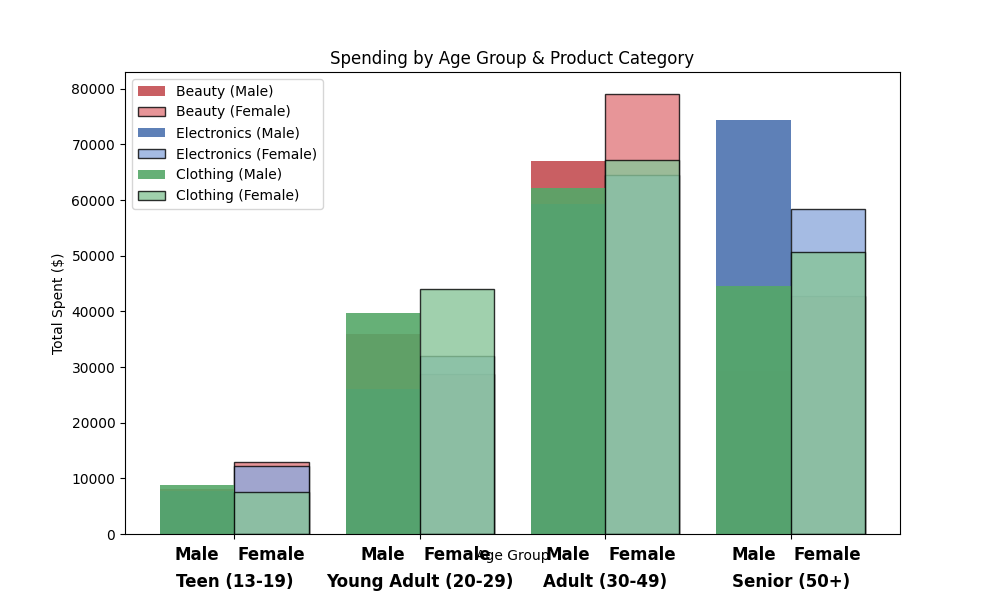
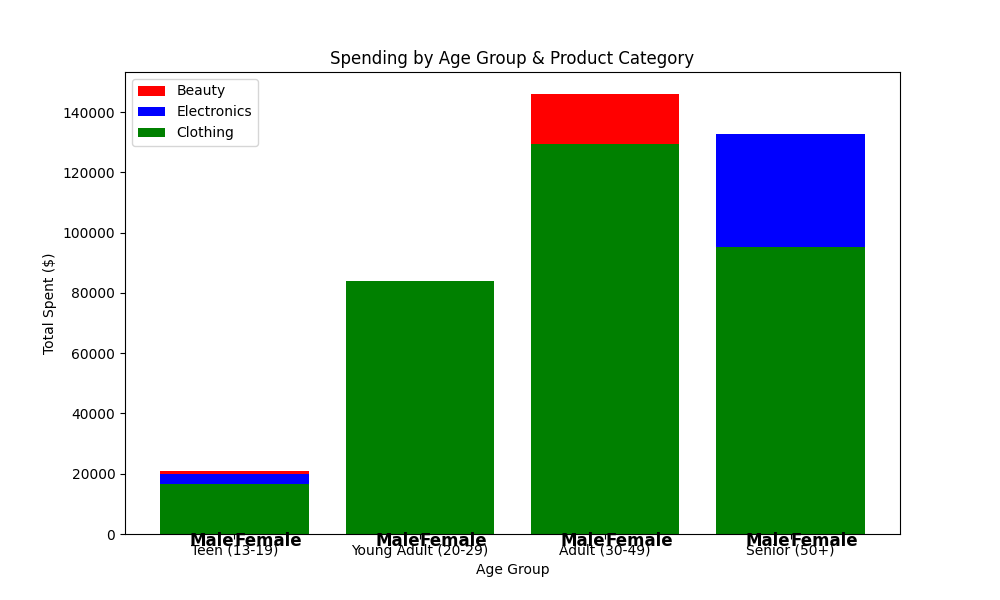
Updated age group chart and final refinements

diff --git a/app.py b/app.py
@@ -141,8 +141,8 @@ def generate_gender_chart():
     plt.savefig("static/gender_chart.png")
     plt.close()
 
-# Generate age-based spending chart with improved colors, better spacing, and refined visuals
-# Generate age-based spending chart with improved colors, better spacing, and proper category display
+
+# Generate age-based spending chart with gender labels below the bars
 def generate_age_chart():
     df_age = get_age_group_spending()
     plt.figure(figsize=(10, 6))
@@ -151,48 +151,32 @@ def generate_age_chart():
     categories = df_age["product_category"].unique()
     x = range(len(age_groups))  # X-axis positions
 
-    # Color palette: Same base color for categories but different shades per gender
+    # Define consistent colors for product categories
     colors = {
-        "Electronics_Male": "#4c72b0",  # Deep Blue
-        "Electronics_Female": "#8faadc",  # Light Blue
-        "Clothing_Male": "#55a868",  # Soft Green
-        "Clothing_Female": "#88c599",  # Light Green
-        "Beauty_Male": "#c44e52",  # Rich Red
-        "Beauty_Female": "#e27b7e"  # Light Red/Pink
+        "Electronics": "blue",
+        "Clothing": "green",
+        "Beauty": "red"
     }
 
-    bar_width = 0.4  # Space between Male and Female bars
-
-    # Loop through categories and plot male & female bars for each
+    # Plot bars for each product category
     for category in categories:
-        male_spending = [df_age.loc[(df_age["age_group"] == age) & (df_age["gender"] == "Male") & (df_age["product_category"] == category), "total_spent"].sum() for age in age_groups]
-        female_spending = [df_age.loc[(df_age["age_group"] == age) & (df_age["gender"] == "Female") & (df_age["product_category"] == category), "total_spent"].sum() for age in age_groups]
+        subset = df_age[df_age["product_category"] == category]
+        total_spending = [subset[subset["age_group"] == age]["total_spent"].sum() for age in age_groups]
+        plt.bar(x, total_spending, label=category, color=colors[category])
 
-        # Ensure that missing categories show as 0 instead of disappearing
-        male_spending = [0 if pd.isna(val) else val for val in male_spending]
-        female_spending = [0 if pd.isna(val) else val for val in female_spending]
-
-        plt.bar([i - bar_width / 2 for i in x], male_spending, width=bar_width, label=f"{category} (Male)", color=colors[f"{category}_Male"], alpha=0.9)
-        plt.bar([i + bar_width / 2 for i in x], female_spending, width=bar_width, label=f"{category} (Female)", color=colors[f"{category}_Female"], edgecolor='black', alpha=0.8)
-
-    # Improved spacing for labels
-    max_height = max(df_age["total_spent"]) if not df_age.empty else 1  # Prevent division by zero
-    gender_labels_y = -max_height * 0.06  # Space for Male/Female labels
-    age_labels_y = -max_height * 0.12  # Space for Age Group labels
-
+    # Add Male & Female labels directly above "Teen", "Young Adult", etc.
+    gender_labels_y = -max(df_age["total_spent"]) * 0.05  # Position labels below the bars
     for i, age in enumerate(age_groups):
-        plt.text(i - bar_width / 2, gender_labels_y, "Male", ha="center", fontsize=12, fontweight="bold", color="black")
-        plt.text(i + bar_width / 2, gender_labels_y, "Female", ha="center", fontsize=12, fontweight="bold", color="black")
-        plt.text(i, age_labels_y, age, ha="center", fontsize=12, fontweight="bold", color="black")
+        plt.text(i, gender_labels_y, "Male", ha="right", fontsize=12, fontweight="bold", color="black")
+        plt.text(i, gender_labels_y, "Female", ha="left", fontsize=12, fontweight="bold", color="black")
 
-    plt.xticks(x, [])  # Hide default x-axis labels since we added them manually
+    plt.xticks(x, age_groups)
     plt.xlabel("Age Group")
     plt.ylabel("Total Spent ($)")
     plt.title("Spending by Age Group & Product Category")
     plt.legend()
     plt.savefig("static/age_chart.png")
     plt.close()
-
 
 # Flask route to render dashboard
 @app.route("/")
@@ -207,4 +191,5 @@ def index():
 ensure_database()
 
 if __name__ == "__main__":
-    app.run(host="0.0.0.0", port=5001)
+    app.run(host="0.0.0.0", port=5001, debug=False)
+
